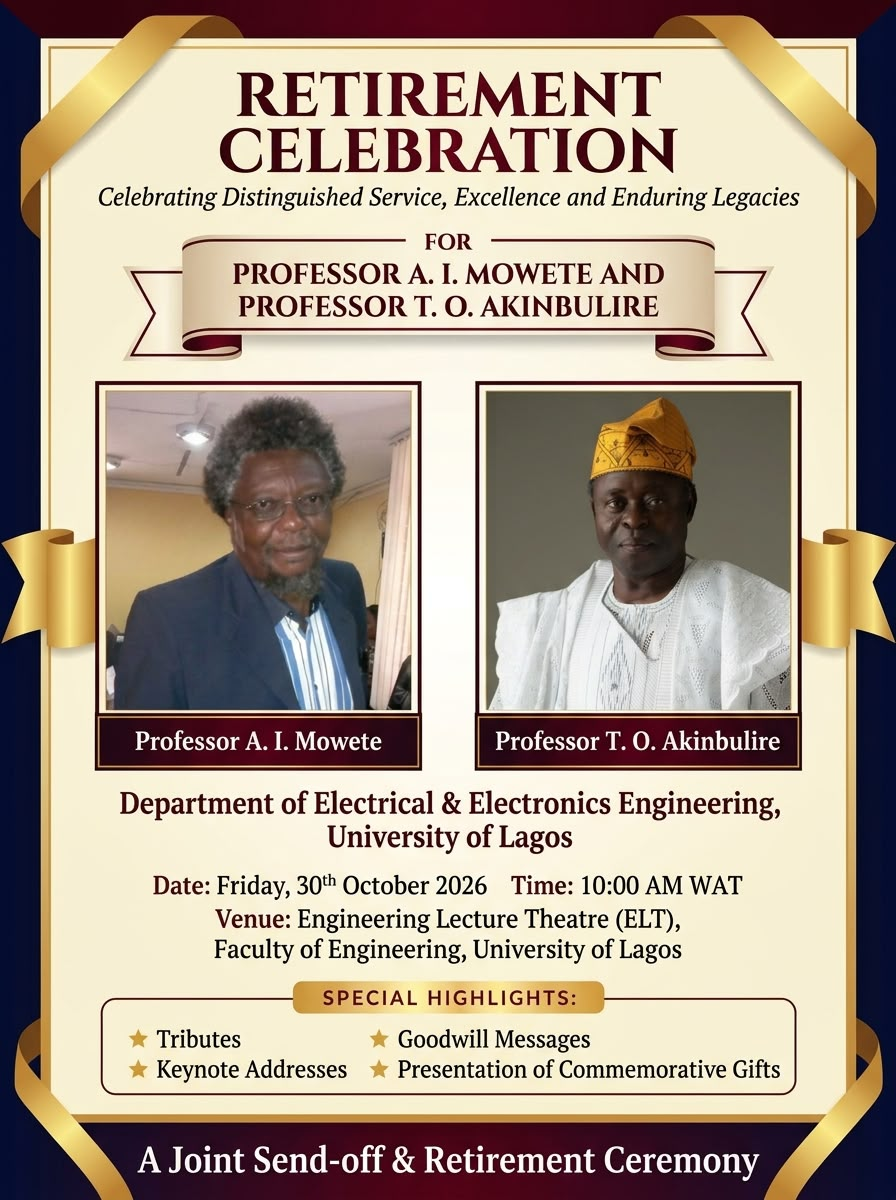
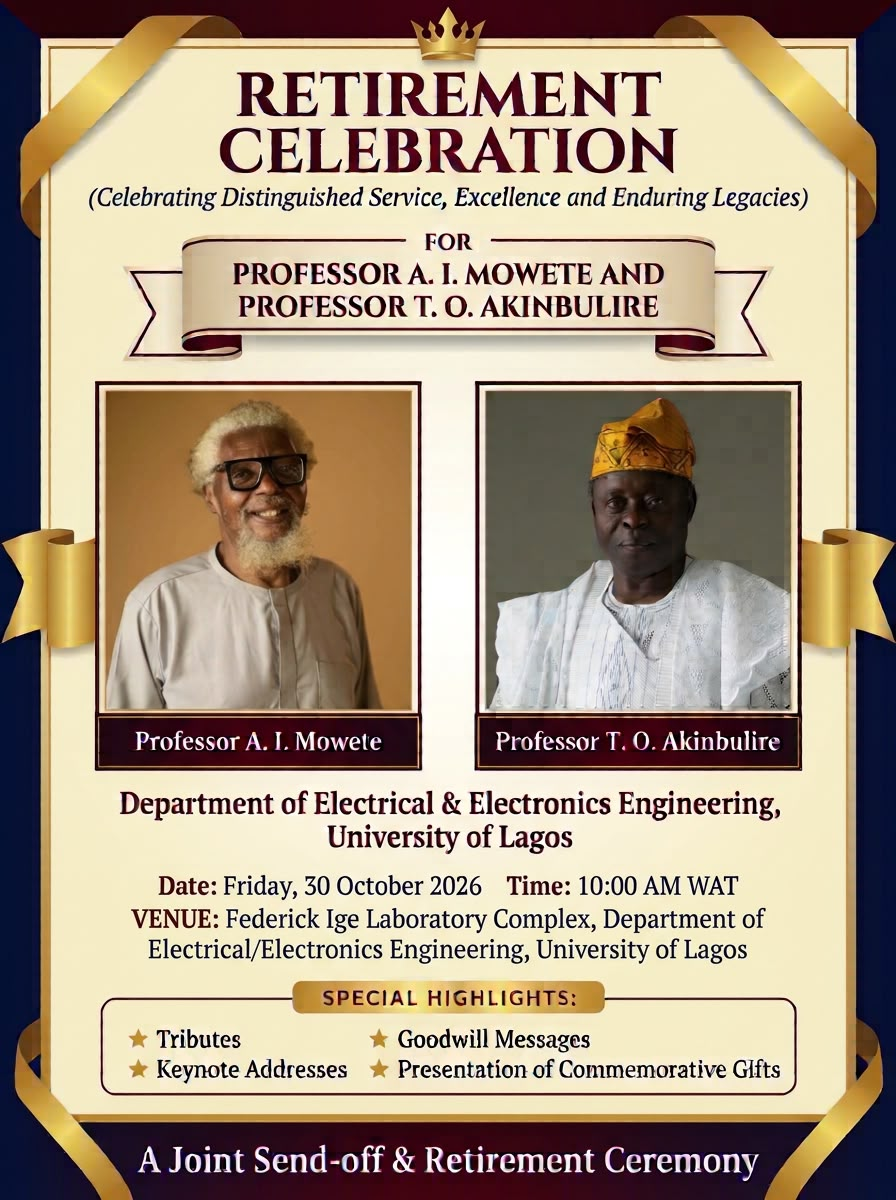
feat: integrate updated flyer and add dedicated invitation showcase with new venue

diff --git a/index.html b/index.html
@@ -806,6 +806,109 @@
     }
 
     /* ============================================
+       OFFICIAL INVITATION SECTION
+       ============================================ */
+    .invitation-section {
+      background: #f4ecdc;
+      border-top: 1px solid var(--line);
+      border-bottom: 1px solid var(--line);
+    }
+    .invitation-card {
+      display: grid;
+      grid-template-columns: minmax(320px, 420px) 1fr;
+      gap: 48px;
+      align-items: center;
+      background: var(--surface);
+      border: 1px solid rgba(169, 119, 25, .32);
+      border-radius: 4px;
+      padding: 36px;
+      box-shadow: 0 25px 60px rgba(69, 25, 22, .12);
+    }
+    .invitation-poster-frame {
+      position: relative;
+      border-radius: 3px;
+      overflow: hidden;
+      border: 1px solid rgba(169, 119, 25, .4);
+      box-shadow: 0 16px 40px rgba(69, 25, 22, .2);
+      cursor: pointer;
+      background: #e4d5be;
+    }
+    .invitation-poster-frame img {
+      width: 100%;
+      height: auto;
+      display: block;
+      transition: transform .5s ease;
+    }
+    .invitation-poster-frame:hover img {
+      transform: scale(1.03);
+    }
+    .poster-overlay {
+      position: absolute;
+      inset: 0;
+      background: rgba(30, 10, 10, .45);
+      display: flex;
+      align-items: center;
+      justify-content: center;
+      opacity: 0;
+      transition: opacity .3s ease;
+      color: #fff;
+      font-size: .88rem;
+      font-weight: 600;
+      letter-spacing: .06em;
+      text-transform: uppercase;
+    }
+    .invitation-poster-frame:hover .poster-overlay {
+      opacity: 1;
+    }
+    .invitation-meta {
+      display: flex;
+      flex-direction: column;
+      gap: 16px;
+    }
+    .invitation-meta h3 {
+      font: 500 clamp(1.6rem, 3vw, 2.3rem)/1.2 var(--serif);
+      color: var(--maroon);
+      margin: 4px 0 0;
+    }
+    .invitation-desc {
+      color: var(--muted);
+      font-size: .95rem;
+      line-height: 1.65;
+      margin: 0;
+    }
+    .invitation-details-list {
+      display: grid;
+      grid-template-columns: 1fr;
+      gap: 12px;
+      padding: 18px 0;
+      border-top: 1px solid rgba(76, 27, 28, .15);
+      border-bottom: 1px solid rgba(76, 27, 28, .15);
+    }
+    .inv-item {
+      display: grid;
+      grid-template-columns: 105px 1fr;
+      gap: 12px;
+      font-size: .88rem;
+      align-items: baseline;
+    }
+    .inv-item strong {
+      color: var(--gold);
+      text-transform: uppercase;
+      font-size: .72rem;
+      letter-spacing: .12em;
+    }
+    .inv-item span {
+      color: var(--text);
+      font-weight: 500;
+    }
+    .invitation-actions {
+      display: flex;
+      gap: 12px;
+      flex-wrap: wrap;
+      margin-top: 6px;
+    }
+
+    /* ============================================
        RESPONSIVE — TABLET & MOBILE
        ============================================ */
     @media (max-width: 860px) {
@@ -829,6 +932,15 @@
         gap: 20px 10px;
       }
       .event-strip-item { border-right: none; }
+      .invitation-card {
+        grid-template-columns: 1fr;
+        gap: 28px;
+        padding: 24px;
+      }
+      .invitation-poster-frame {
+        max-width: 380px;
+        margin: 0 auto;
+      }
     }
 
     @media (max-width: 620px) {
@@ -911,6 +1023,7 @@
         <a href="#tribute">The Tribute</a>
         <a href="#journey">Journey in Pictures</a>
         <a href="#gallery">Photo Archive</a>
+        <a href="#invitation">The Invitation</a>
         <a href="#program">Program of Events</a>
         <a class="nav-btn" href="https://forms.gle/xHoydT1CKy7JDxao9" target="_blank" rel="noopener">Register to Attend</a>
         <button class="nav-btn open-qr">QR Pass</button>
@@ -927,7 +1040,7 @@
     <section class="hero" id="top">
       <div class="wrap hero-layout">
         <div class="hero-content">
-          <span class="badge">JOINT SEND-OFF &amp; RETIREMENT CEREMONY • FRIDAY, 30TH OCTOBER 2026</span>
+          <span class="badge">JOINT SEND-OFF &amp; RETIREMENT CEREMONY • FRIDAY, 30 OCTOBER 2026</span>
           <p class="hero-kicker">Celebrating Distinguished Service, Excellence &amp; Enduring Legacies</p>
           <h1>HONOURING A LEGACY OF EXCELLENCE</h1>
           <p class="hero-honourees">Professor A. I. Mowete &amp; Professor T. O. Akinbulire</p>
@@ -938,7 +1051,7 @@
             <a class="btn btn-outline" href="https://forms.gle/xHoydT1CKy7JDxao9" target="_blank" rel="noopener">Register to Attend</a>
           </div>
           <div style="margin-top: 14px;">
-            <a class="hero-flyer-badge" id="view-flyer-btn" href="javascript:void(0)">
+            <a class="hero-flyer-badge" id="view-flyer-btn" href="#invitation">
               📜 View Official Invitation Poster →
             </a>
           </div>
@@ -971,13 +1084,13 @@
       <div class="wrap event-strip-grid">
         <div class="event-strip-item">
           <span class="strip-label">Date</span>
-          <strong>Friday, 30th October 2026</strong>
+          <strong>Friday, 30 October 2026</strong>
           <small>10:00 AM WAT</small>
         </div>
         <div class="event-strip-item">
           <span class="strip-label">Venue</span>
-          <strong>Engineering Lecture Theatre (ELT)</strong>
-          <small>Faculty of Engineering, UNILAG</small>
+          <strong>Federick Ige Laboratory Complex</strong>
+          <small>Dept. of Electrical/Electronics Engineering, UNILAG</small>
         </div>
         <div class="event-strip-item">
           <span class="strip-label">Occasion</span>
@@ -1064,14 +1177,66 @@
       </div>
     </section>
 
+    <!-- OFFICIAL INVITATION -->
+    <section class="section invitation-section" id="invitation">
+      <div class="wrap">
+        <div class="section-heading reveal">
+          <span class="eyebrow">Official Event Announcement</span>
+          <h2>The Invitation Poster</h2>
+          <div class="gold-rule"></div>
+          <p>Official retirement celebration invitation for Professor A. I. Mowete and Professor T. O. Akinbulire.</p>
+        </div>
+
+        <div class="invitation-card reveal">
+          <div class="invitation-poster-frame" id="poster-trigger" title="Click to view full size poster in Lightbox">
+            <img src="images/event-flyer.jpg" alt="Official Retirement Celebration Invitation Poster">
+            <div class="poster-overlay">
+              <span>Click to View Full Size 🔍</span>
+            </div>
+          </div>
+          <div class="invitation-meta">
+            <span class="badge">A JOINT SEND-OFF &amp; RETIREMENT CEREMONY</span>
+            <h3>Celebrating Distinguished Service, Excellence &amp; Enduring Legacies</h3>
+            <p class="invitation-desc">
+              The Department of Electrical &amp; Electronics Engineering, University of Lagos cordially invites colleagues, alumni, students, friends, and well-wishers to celebrate the meritorious careers and lasting legacies of <strong>Professor A. I. Mowete</strong> and <strong>Professor T. O. Akinbulire</strong>.
+            </p>
+
+            <div class="invitation-details-list">
+              <div class="inv-item">
+                <strong>Date</strong>
+                <span>Friday, 30 October 2026</span>
+              </div>
+              <div class="inv-item">
+                <strong>Time</strong>
+                <span>10:00 AM WAT</span>
+              </div>
+              <div class="inv-item">
+                <strong>Venue</strong>
+                <span>Federick Ige Laboratory Complex, Department of Electrical/Electronics Engineering, University of Lagos</span>
+              </div>
+              <div class="inv-item">
+                <strong>Highlights</strong>
+                <span>Tributes • Keynote Addresses • Goodwill Messages • Presentation of Commemorative Gifts</span>
+              </div>
+            </div>
+
+            <div class="invitation-actions">
+              <a class="btn btn-gold" href="https://forms.gle/xHoydT1CKy7JDxao9" target="_blank" rel="noopener">Register to Attend →</a>
+              <a class="btn btn-outline" href="images/event-flyer.jpg" download="UNILAG-Retirement-Celebration-Flyer.jpg">Download Official Poster (JPG) 📥</a>
+            </div>
+          </div>
+        </div>
+      </div>
+    </section>
+
     <!-- PROGRAM OF EVENTS -->
     <section class="section program" id="program">
       <div class="wrap">
         <div class="section-heading reveal">
-          <span class="eyebrow">Friday, 30th October 2026 · 10:00 AM WAT</span>
+          <span class="eyebrow">Friday, 30 October 2026 · 10:00 AM WAT</span>
           <h2>Joint Send-off Ceremony<br>&amp; Retirement Celebration</h2>
           <div class="gold-rule"></div>
-          <p>Engineering Lecture Theatre (ELT), Faculty of Engineering, University of Lagos</p>
+          <p>Federick Ige Laboratory Complex, Department of Electrical/Electronics Engineering, University of Lagos</p>
         </div>
         <div class="schedule" id="schedule"></div>
         <p class="program-note">Chief Host: Vice-Chancellor, University of Lagos • Host: Dean, Faculty of Engineering</p>
@@ -1203,7 +1368,7 @@
       category: 'Event & Invitation',
       year: 'Friday, 30 Oct 2026',
       title: 'Official Send-off Poster',
-      caption: 'A Joint Send-off & Retirement Ceremony at the Engineering Lecture Theatre (ELT), UNILAG.'
+      caption: 'A Joint Send-off & Retirement Ceremony at the Federick Ige Laboratory Complex, UNILAG.'
     }
   ];
 
@@ -1237,7 +1402,7 @@
 
   /* ---- OFFICIAL PROGRAM SCHEDULE ---- */
   const programSchedule = [
-    { title: 'Arrival & Registration of Guests',          time: '10:00 AM – 10:30 AM', description: 'Guests, alumni, and faculty arrive at the Engineering Lecture Theatre (ELT), receive event brochures, and are seated.' },
+    { title: 'Arrival & Registration of Guests',          time: '10:00 AM – 10:30 AM', description: 'Guests, alumni, and faculty arrive at the Federick Ige Laboratory Complex, receive event brochures, and are seated.' },
     { title: 'National Anthem & University of Lagos Anthem', time: '10:30 AM – 10:40 AM', description: 'Audience stands for the solemn rendition of the Nigerian National Anthem and the UNILAG Anthem.' },
     { title: 'Opening Prayer',                             time: '10:40 AM – 10:45 AM', description: 'Invocation of divine blessings and grace for the celebration.' },
     { title: 'Procession & High Table Protocol',           time: '10:45 AM – 11:00 AM', description: 'Prof. A. I. Mowete and Prof. T. O. Akinbulire, along with university leaders and dignitaries, are ushered to the High Table.' },
@@ -1332,10 +1497,20 @@
     filtered = photos;
     showPhoto(3);
   });
-  document.querySelector('#view-flyer-btn').addEventListener('click', () => {
-    filtered = photos;
-    showPhoto(9); // Flyer
+  // Hero flyer button scrolls smoothly to #invitation
+  document.querySelector('#view-flyer-btn').addEventListener('click', (e) => {
+    e.preventDefault();
+    document.querySelector('#invitation').scrollIntoView({ behavior: 'smooth' });
   });
+
+  // Poster trigger in #invitation opens fullscreen Lightbox
+  const posterTrig = document.querySelector('#poster-trigger');
+  if (posterTrig) {
+    posterTrig.addEventListener('click', () => {
+      filtered = photos;
+      showPhoto(9); // Flyer
+    });
+  }
 
   /* ---- MODAL MANAGEMENT ---- */
   function closeModal(m) {
@@ -1452,8 +1627,8 @@
       // Date & Venue
       ctx.fillStyle = '#5b3d36';
       ctx.font = '17px Arial, sans-serif';
-      ctx.fillText('Friday, 30th October 2026 • 10:00 AM WAT', 450, 465);
-      ctx.fillText('Engineering Lecture Theatre (ELT), UNILAG', 450, 492);
+      ctx.fillText('Friday, 30 October 2026 • 10:00 AM WAT', 450, 465);
+      ctx.fillText('Federick Ige Laboratory Complex, UNILAG', 450, 492);
 
       // QR Code frame
       ctx.fillStyle = '#fff';

diff --git a/README.md b/README.md
@@ -10,9 +10,9 @@ An editorial-grade, single-page retirement celebration and tribute website built
 
 - **Event**: Joint Send-off & Retirement Ceremony
 - **Honourees**: Professor A. I. Mowete & Professor T. O. Akinbulire
-- **Date**: Friday, 30th October 2026
+- **Date**: Friday, 30 October 2026
 - **Time**: 10:00 AM WAT
-- **Venue**: Engineering Lecture Theatre (ELT), Faculty of Engineering, University of Lagos
+- **Venue**: Federick Ige Laboratory Complex, Department of Electrical/Electronics Engineering, University of Lagos
 - **Registration**: [Google Form Registration Link](https://forms.gle/xHoydT1CKy7JDxao9)
 
 ---
